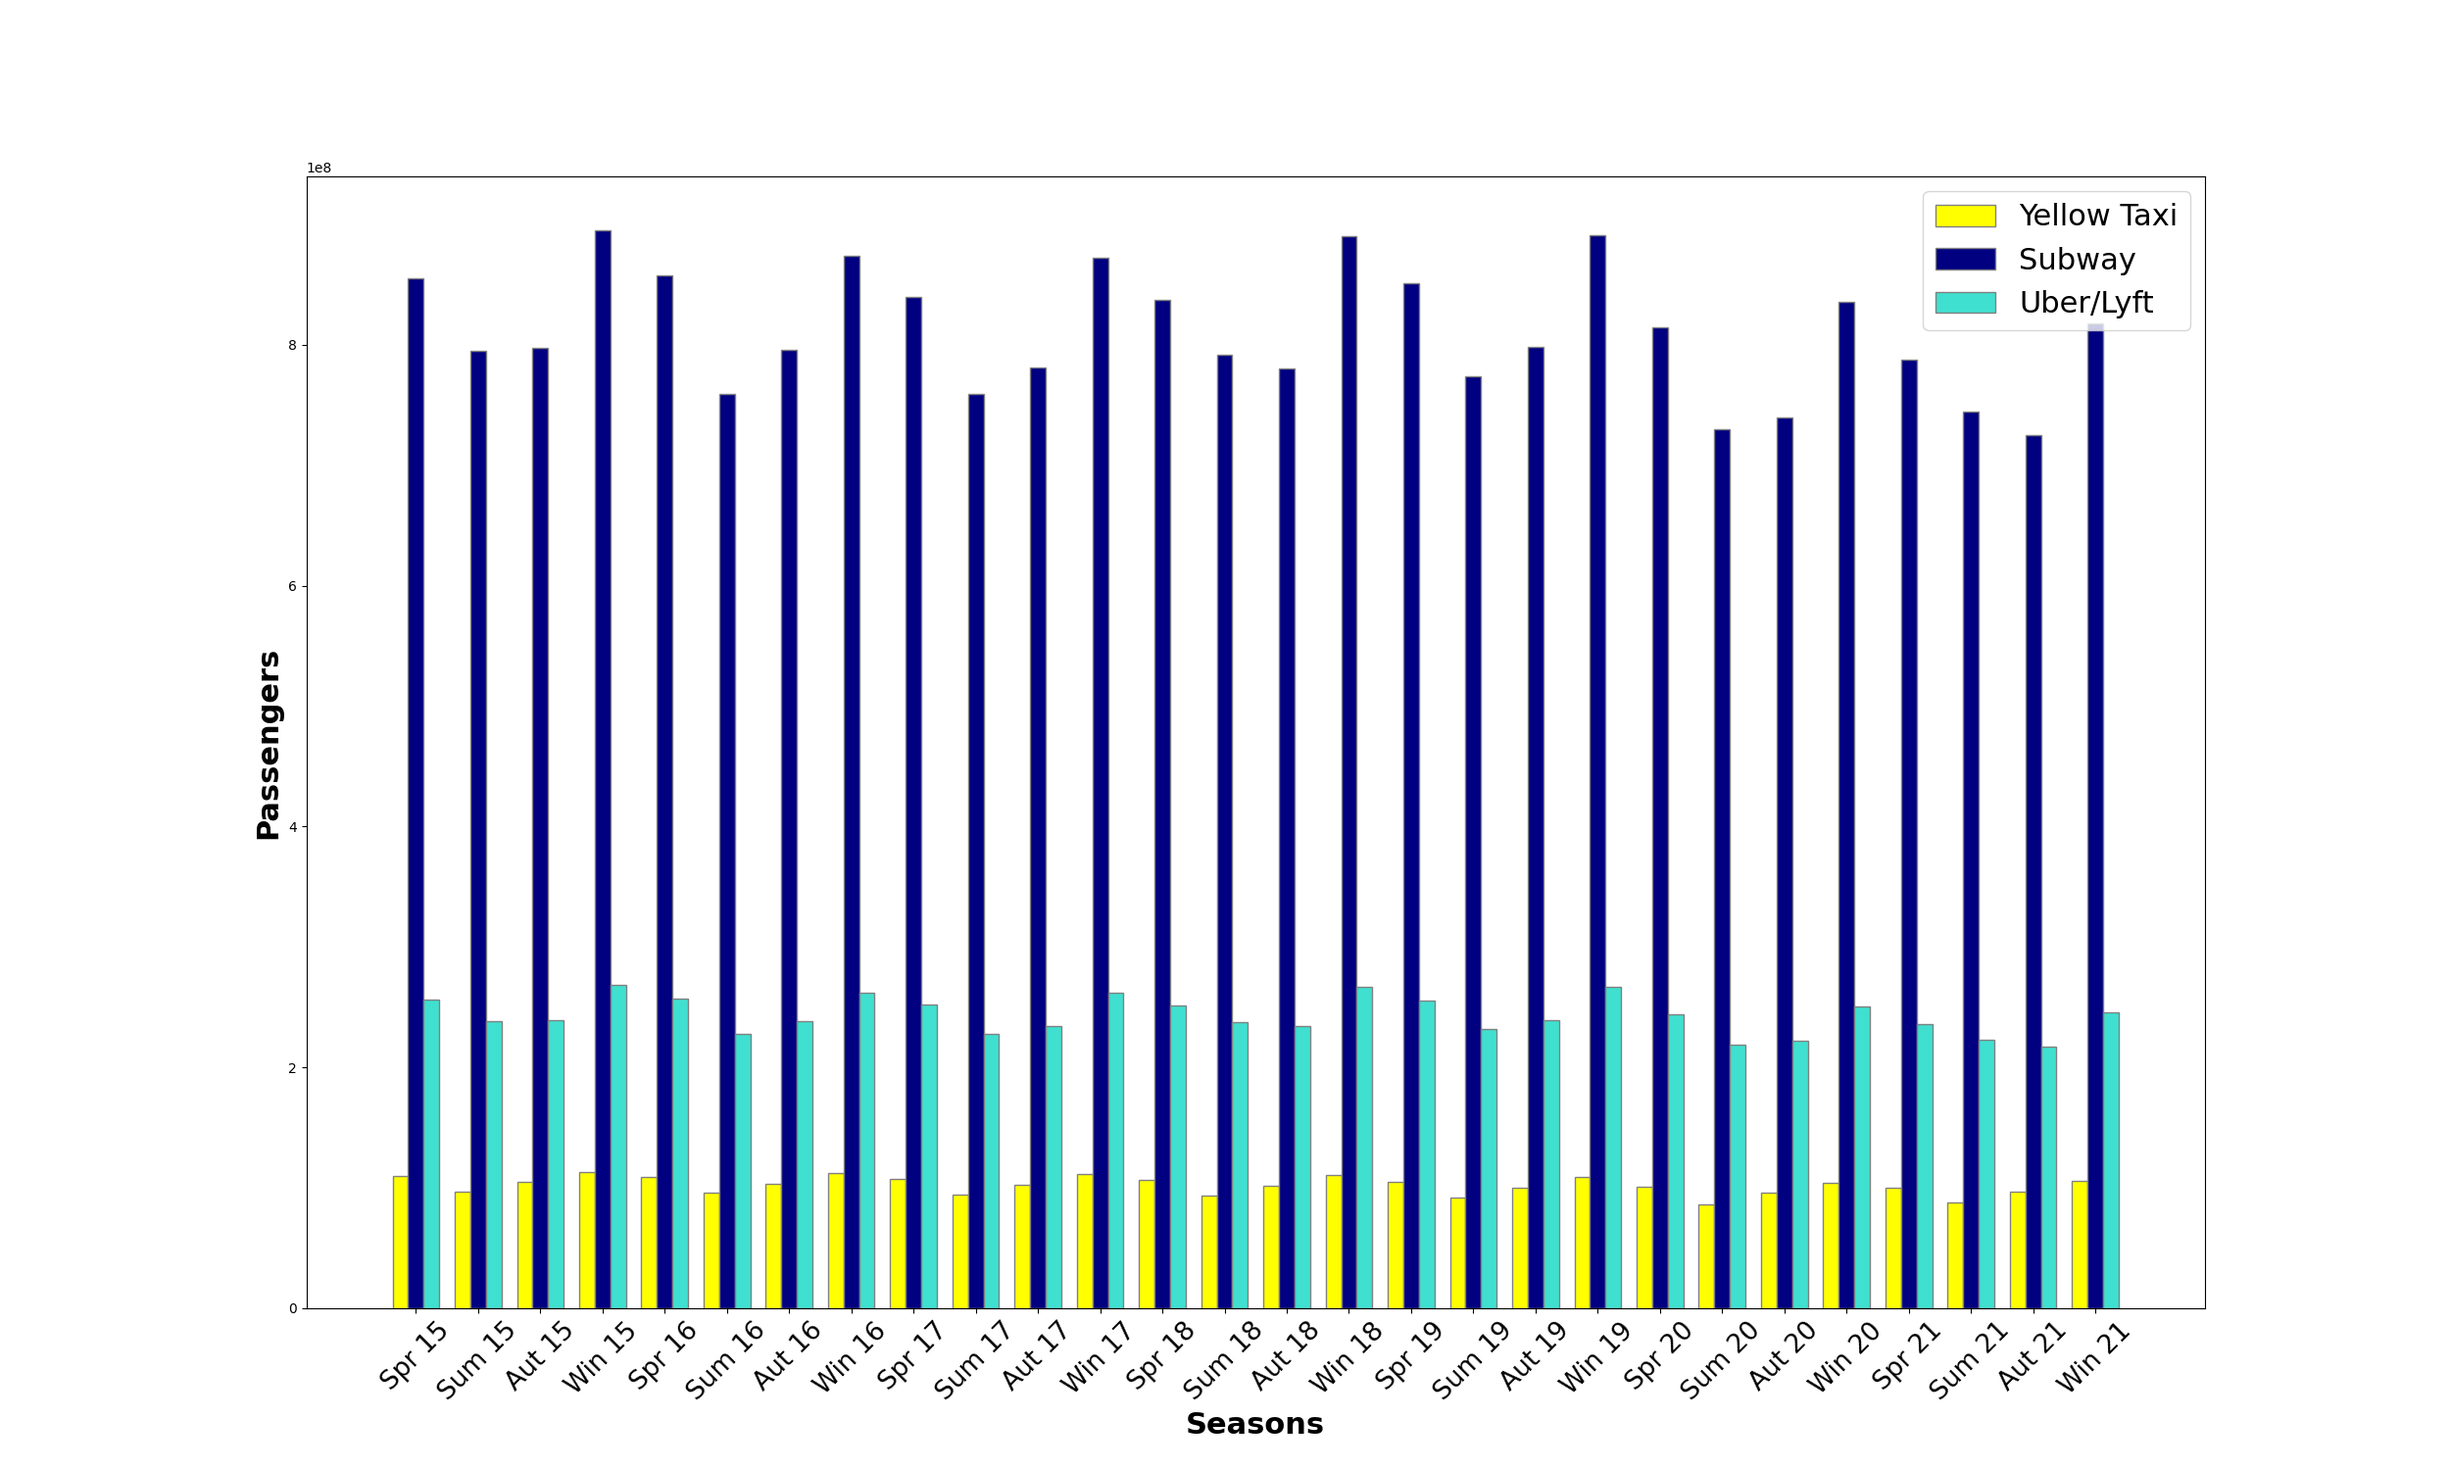
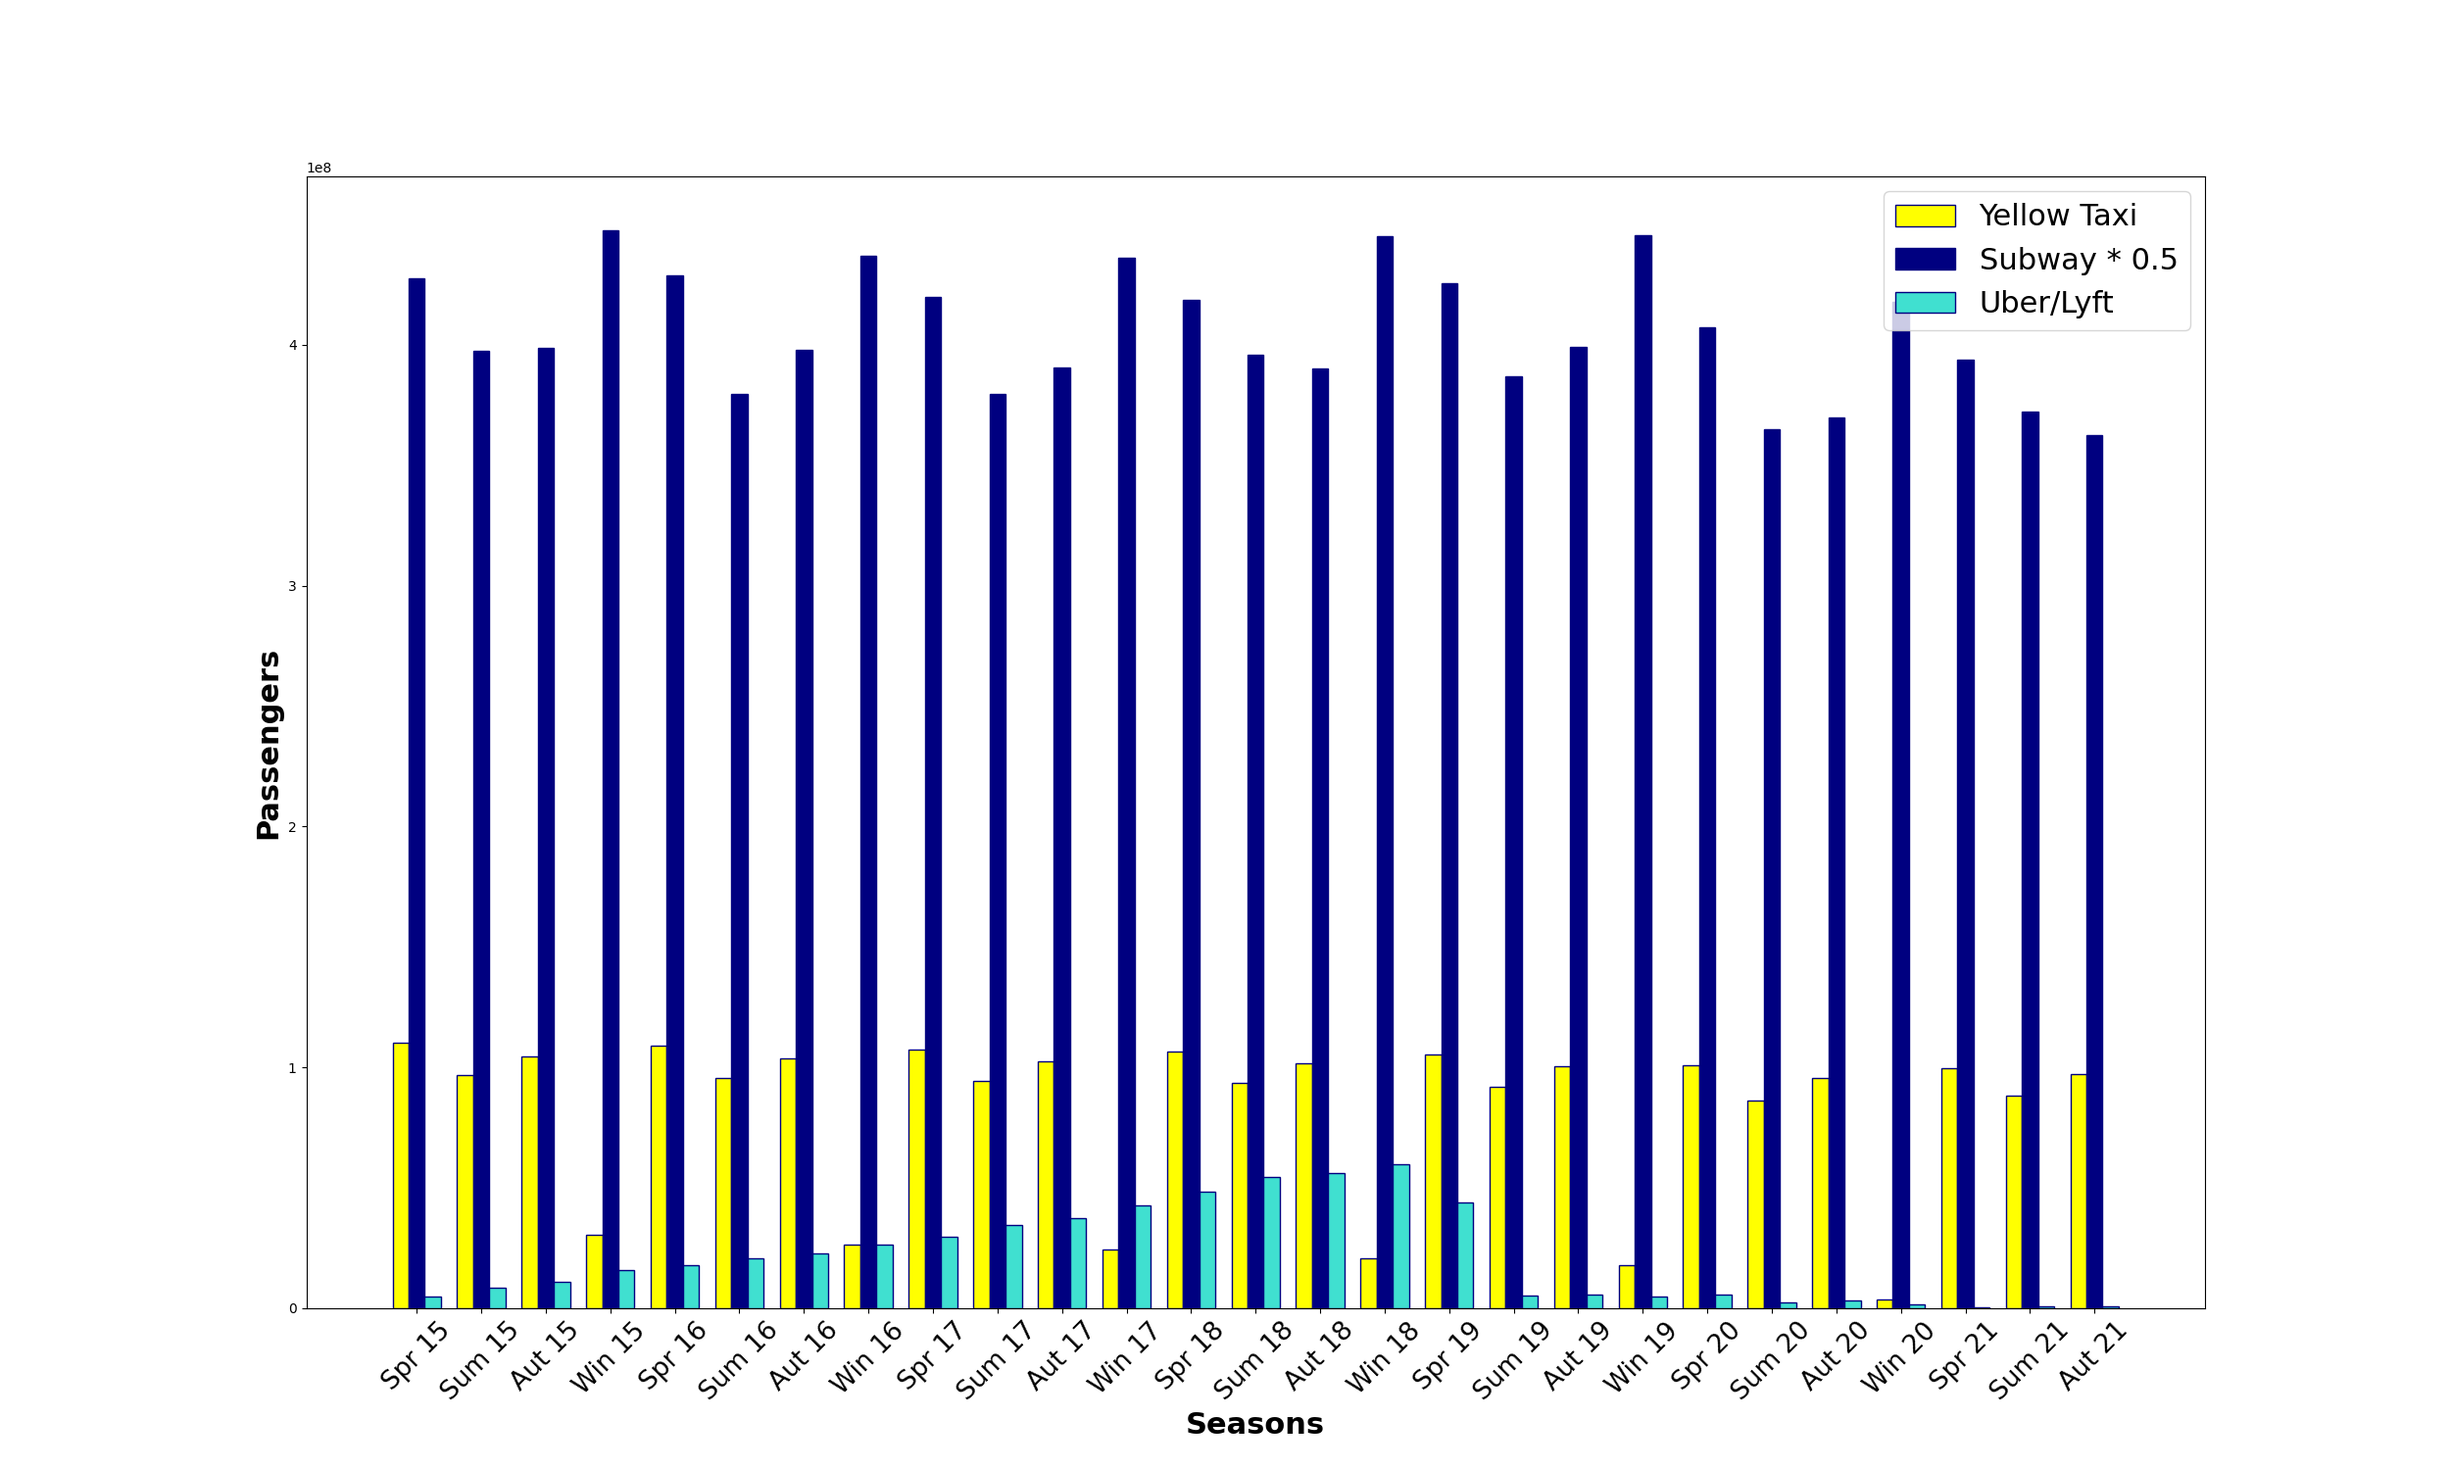
Updated plotting files and results as well as updated top 10 mapper to use year in key

Changed region(s): [[0.156, 0.1227, 0.8736, 0.9507]]

diff --git a/java_yellow_taxi_stats/src/main/java/taxi/YellowTaxiStats.java b/java_yellow_taxi_stats/src/main/java/taxi/YellowTaxiStats.java
@@ -63,77 +63,79 @@ public class YellowTaxiStats {
 //        job.waitForCompletion(true);
 
 
-//        // Job
-//        // Count the number of times passengers are picked up at certain location id
-//        String counter_out_path_str = args[3];
-//        Path counter_out_path = new Path(counter_out_path_str);
-//        Configuration conf_counter = new Configuration();
-//        conf_counter.set("mapred.textoutputformat.separator", ",");
-//        Job job_counter = Job.getInstance(conf_counter);
-//        job_counter.setJarByClass(YellowTaxiStats.class);
-//        job_counter.setJobName("Job Name: YellowTaxiStatsCounter");
-//        job_counter.setNumReduceTasks(1);
-//
-//        for (int file_num = 0; file_num <= MAX_FILES; file_num++) {
-//            String input = main_dir + "/part-m-" + leftZeroPad(file_num);
-//            MultipleInputs.addInputPath(job_counter, new Path(input), TextInputFormat.class, YellowTaxiStatsCountMapper.class);
-//        }
-//
-//        job_counter.setCombinerClass(YellowTaxiStatsCounterReducer.class);
-//        job_counter.setReducerClass(YellowTaxiStatsCounterReducer.class);
-//        job_counter.setOutputFormatClass(TextOutputFormat.class);
-//        TextOutputFormat.setOutputPath(job_counter, counter_out_path);
-//        job_counter.setOutputKeyClass(Text.class);
-//        job_counter.setOutputValueClass(IntWritable.class);
-//        job_counter.waitForCompletion(true);
-//
-//
-//        // Job
-//        // Return the top 10 pick up locations
-//        Configuration conf_top_10 = new Configuration();
-//        conf_top_10.set("mapred.textoutputformat.separator", ",");
-//        Job job_top_10 = Job.getInstance(conf_top_10, "YellowTaxiStatsTop10 count");
-//        job_top_10.setJarByClass(YellowTaxiStats.class);
-//        job_top_10.setMapperClass(YellowTaxiStatsTop10Mapper.class);
-//        job_top_10.setReducerClass(YellowTaxiStatsTop10Reducer.class);
-//        job_top_10.setNumReduceTasks(1);
-//        job_top_10.setOutputKeyClass(NullWritable.class);
-//        job_top_10.setOutputValueClass(Text.class);
-//        // Use the output file from the previous job as the input to this job
-//        FileInputFormat.addInputPath(job_top_10, new Path(args[3]));
-//        FileOutputFormat.setOutputPath(job_top_10, new Path(args[3]+"_top10"));
-//        job_top_10.waitForCompletion(true);
-
-
 
         // Job
         // Count the number of times passengers are picked up at certain location id
-        String pu_loc_counter_file = args[2];
-        Path pu_loc_counter = new Path(pu_loc_counter_file);
-        FileUtils.deleteDirectory(new File(pu_loc_counter_file));
+        String counter_out_path_str = args[3];
+        Path counter_out_path = new Path(counter_out_path_str);
         Configuration conf_counter = new Configuration();
         conf_counter.set("mapred.textoutputformat.separator", ",");
-        Job job_loc_id_count = Job.getInstance(conf_counter);
-        job_loc_id_count.setJarByClass(YellowTaxiStats.class);
-        job_loc_id_count.setJobName("Job Name: YellowTaxiStatsLocIDCounter");
-        job_loc_id_count.setNumReduceTasks(1);
+        Job job_counter = Job.getInstance(conf_counter);
+        job_counter.setJarByClass(YellowTaxiStats.class);
+        job_counter.setJobName("Job Name: YellowTaxiStatsCounter");
+        job_counter.setNumReduceTasks(1);
 
         for (int file_num = 0; file_num <= MAX_FILES; file_num++) {
             String input = main_dir + "/part-m-" + leftZeroPad(file_num);
-            MultipleInputs.addInputPath(job_loc_id_count, new Path(input), TextInputFormat.class, YellowTaxiStatsCountZonesMapper.class);
+            MultipleInputs.addInputPath(job_counter, new Path(input), TextInputFormat.class, YellowTaxiStatsCountMapper.class);
         }
 
-//        String input_file = args[1];
-//        MultipleInputs.addInputPath(job_loc_id_count, new Path(input_file), TextInputFormat.class, YellowTaxiStatsCountZonesMapper.class);
+        job_counter.setCombinerClass(YellowTaxiStatsCounterReducer.class);
+        job_counter.setReducerClass(YellowTaxiStatsCounterReducer.class);
+        job_counter.setOutputFormatClass(TextOutputFormat.class);
+        TextOutputFormat.setOutputPath(job_counter, counter_out_path);
+        job_counter.setOutputKeyClass(Text.class);
+        job_counter.setOutputValueClass(IntWritable.class);
+        job_counter.waitForCompletion(true);
 
-        job_loc_id_count.setCombinerClass(YellowTaxiStatsCountZonesReducer.class);
-        job_loc_id_count.setReducerClass(YellowTaxiStatsCountZonesReducer.class);
-        job_loc_id_count.setOutputFormatClass(TextOutputFormat.class);
-        TextOutputFormat.setOutputPath(job_loc_id_count, pu_loc_counter);
-        job_loc_id_count.setOutputKeyClass(Text.class);
-        job_loc_id_count.setOutputValueClass(IntWritable.class);
-        job_loc_id_count.waitForCompletion(true);
 
+        // Job
+        // Return the top 10 pick up locations
+        Configuration conf_top_10 = new Configuration();
+        conf_top_10.set("mapred.textoutputformat.separator", ",");
+        Job job_top_10 = Job.getInstance(conf_top_10, "YellowTaxiStatsTop10 count");
+        job_top_10.setJarByClass(YellowTaxiStats.class);
+        job_top_10.setMapperClass(YellowTaxiStatsTop10Mapper.class);
+        job_top_10.setReducerClass(YellowTaxiStatsTop10Reducer.class);
+        job_top_10.setNumReduceTasks(1);
+        job_top_10.setOutputKeyClass(NullWritable.class);
+        job_top_10.setOutputValueClass(Text.class);
+        // Use the output file from the previous job as the input to this job
+        FileInputFormat.addInputPath(job_top_10, new Path(args[3]));
+        FileOutputFormat.setOutputPath(job_top_10, new Path(args[3]+"_top10"));
+        job_top_10.waitForCompletion(true);
+
+
+
+
+
+
+
+
+//        // Job
+//        // Count the number of times passengers are picked up at certain location id
+//        String pu_loc_counter_file = args[2];
+//        Path pu_loc_counter = new Path(pu_loc_counter_file);
+//        FileUtils.deleteDirectory(new File(pu_loc_counter_file));
+//        Configuration conf_counter = new Configuration();
+//        conf_counter.set("mapred.textoutputformat.separator", ",");
+//        Job job_loc_id_count = Job.getInstance(conf_counter);
+//        job_loc_id_count.setJarByClass(YellowTaxiStats.class);
+//        job_loc_id_count.setJobName("Job Name: YellowTaxiStatsLocIDCounter");
+//        job_loc_id_count.setNumReduceTasks(1);
+//
+//        for (int file_num = 0; file_num <= MAX_FILES; file_num++) {
+//            String input = main_dir + "/part-m-" + leftZeroPad(file_num);
+//            MultipleInputs.addInputPath(job_loc_id_count, new Path(input), TextInputFormat.class, YellowTaxiStatsCountZonesMapper.class);
+//        }
+//
+//        job_loc_id_count.setCombinerClass(YellowTaxiStatsCountZonesReducer.class);
+//        job_loc_id_count.setReducerClass(YellowTaxiStatsCountZonesReducer.class);
+//        job_loc_id_count.setOutputFormatClass(TextOutputFormat.class);
+//        TextOutputFormat.setOutputPath(job_loc_id_count, pu_loc_counter);
+//        job_loc_id_count.setOutputKeyClass(Text.class);
+//        job_loc_id_count.setOutputValueClass(IntWritable.class);
+//        job_loc_id_count.waitForCompletion(true);
 
     }
 }

diff --git a/plotting/seasons.py b/plotting/seasons.py
@@ -5,14 +5,17 @@ import pandas as pd
 barWidth = 0.25
 fig = plt.subplots(figsize=(25, 15))
 
-df = pd.read_csv('plotting/input_data/seasons_output_yellow_taxi.txt', header=None)
+df = pd.read_csv('sql_output/seasons_output_yello_taxi.txt', header=None)
 yellow_taxi = [row[0] for _, row in df.iterrows()]
 
 df = pd.read_csv('plotting/input_data/seasons_output_subway.txt', header=None)
 subway = [row[0] for _, row in df.iterrows()]
 
+subway = [x * 0.5 for x in subway]
 
-lyft = [x * 0.3 for x in subway] #TODO update with real data
+
+df = pd.read_csv('plotting/input_data/fhv_seasons.csv', header=None)
+fhv = [row[0] for _, row in df.iterrows()]
 
 
 # Set position of bar on X axis
@@ -22,11 +25,11 @@ br3 = [x + barWidth for x in br2]
 
 # # Make the plot
 plt.bar(br1, yellow_taxi, color='yellow', width=barWidth,
-        edgecolor='grey', label='Yellow Taxi')
+        edgecolor='navy', label='Yellow Taxi')
 plt.bar(br2, subway, color='navy', width=barWidth,
-        edgecolor='grey', label='Subway')
-plt.bar(br3, lyft, color='turquoise', width=barWidth,
-        edgecolor='grey', label='Uber/Lyft')
+        edgecolor='navy', label='Subway * 0.5')
+plt.bar(br3, fhv, color='turquoise', width=barWidth,
+        edgecolor='navy', label='Uber/Lyft')
 
 
 plt.xticks(rotation=45, fontsize=19)
@@ -39,11 +42,10 @@ plt.xticks([r + barWidth for r in range(len(yellow_taxi))],
             'Spr 18', 'Sum 18', 'Aut 18', 'Win 18',
             'Spr 19', 'Sum 19', 'Aut 19', 'Win 19',
             'Spr 20', 'Sum 20', 'Aut 20', 'Win 20',
-            'Spr 21', 'Sum 21', 'Aut 21', 'Win 21',
+            'Spr 21', 'Sum 21', 'Aut 21',
             ])
 
 plt.legend(fontsize="22")
 plt.savefig('plotting/output_plots/seasons.png')
 
 plt.show()
-

diff --git a/java_yellow_taxi_stats/src/main/java/taxi/YellowTaxiStatsCountMapper.java b/java_yellow_taxi_stats/src/main/java/taxi/YellowTaxiStatsCountMapper.java
@@ -8,7 +8,6 @@ import org.apache.hadoop.io.Text;
 import org.apache.hadoop.mapreduce.Mapper;
 
 public class YellowTaxiStatsCountMapper extends Mapper<LongWritable, Text, Text, IntWritable> {
-    private final YellowTaxiStatsTuple outTuple = new YellowTaxiStatsTuple();
 
     @Override
     public void map(LongWritable key, Text value, Context context)
@@ -18,7 +17,8 @@ public class YellowTaxiStatsCountMapper extends Mapper<LongWritable, Text, Text,
         if (!values[0].equals("pu_date")) {
             try {
                 String pu_loc = values[CleanedCSVMetaData.getColIdx(ColNames.PU_LOC_ID)];
-                context.write(new Text(pu_loc), new IntWritable(1));
+                String pu_year = values[CleanedCSVMetaData.getColIdx(ColNames.PU_YEAR)];
+                context.write(new Text(pu_year+"_"+pu_loc), new IntWritable(1));
             } catch (Exception e) {
                 System.out.println("Couldn't read pu_loc_id value from csv");
                 System.out.println(e.getMessage());
